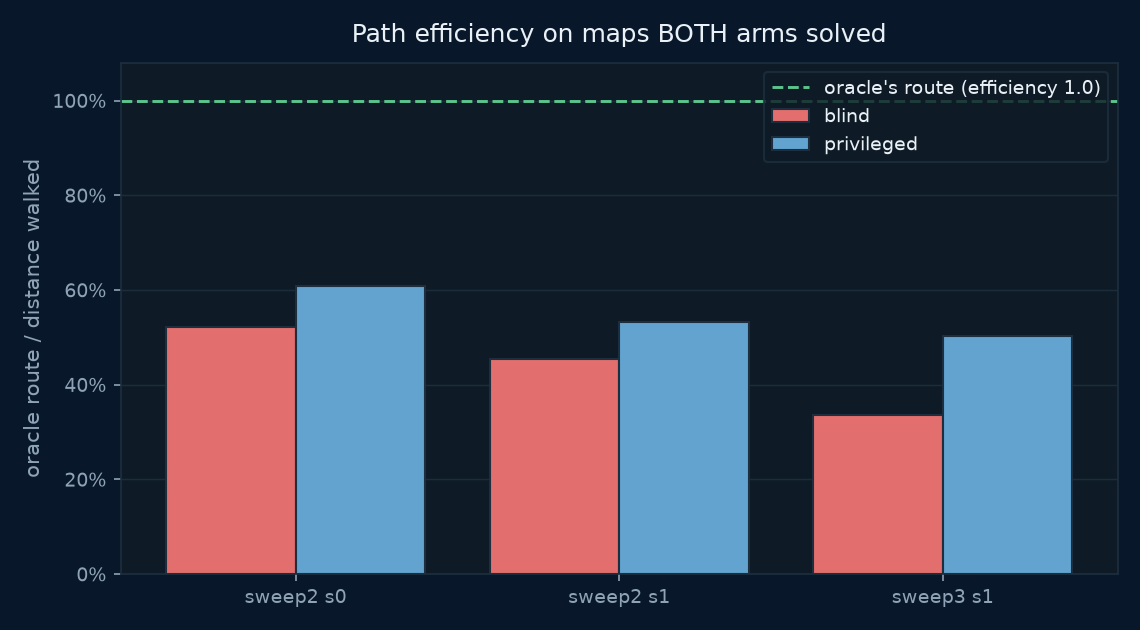
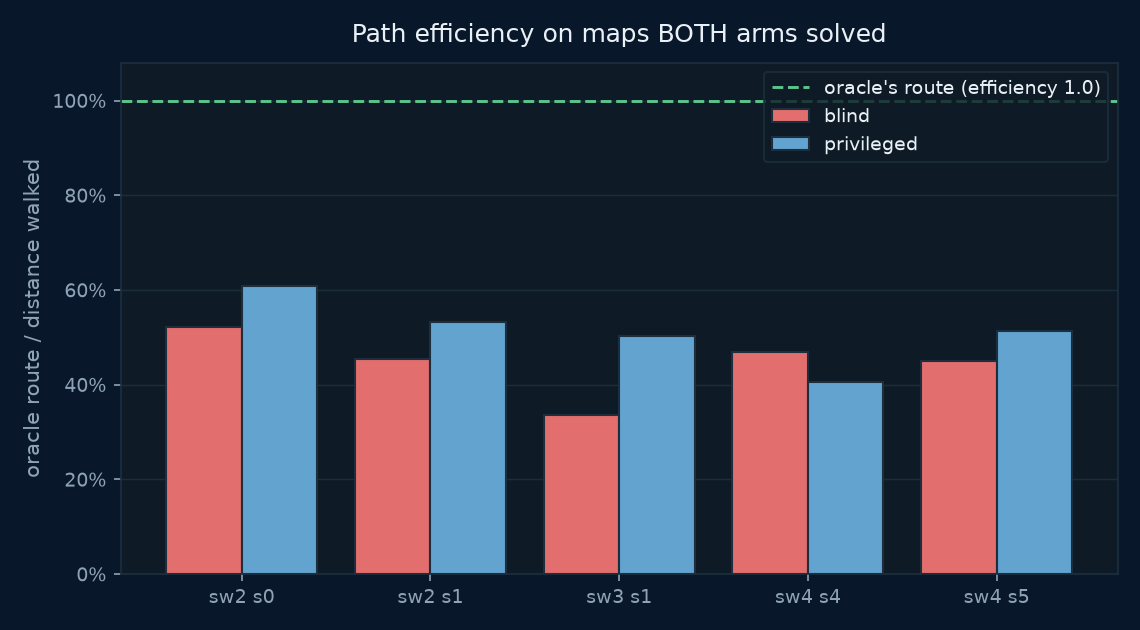
feat: angled views, a richer HUD, and three more seeds per arm (#82)
ANGLED CAMERAS. Overhead reads the route and flattens the terrain, so
four perspective views are added: isometric, chase, over-the-shoulder
and a slow orbit. They work because the route and track are MuJoCo
SCENE GEOMETRY rather than pixels painted on the finished frame -- the
hand projection that replaced was valid for exactly one camera at one
angle, and each new view would have needed its own version of it, each
wrong in its own way.

Marker size now scales with camera distance. A sphere sized for a 21 m
overhead shot is the size of the robot on a 5.5 m chase cam and
swallows the thing it annotates.

RICHER HUD. Step count, heading error against the goal bearing, speed,
and torso clearance, plus a TERRAIN COMPASS showing the same three
probes the privileged policy actually receives -- each cell red when
the rise exceeds the 0.12 m climbable threshold.

On the blind arm that panel is greyed and marked "NOT OBSERVED". A HUD
that looked identical for both arms would quietly imply they see the
same thing, which is the one claim this lab exists to test.

THREE MORE SEEDS PER ARM, a third independent sweep:

    blind       8.1%   8, 15,  0,  4, 19,  1,  1, 12, 14 %
    privileged 12.1%  16, 16,  4,  6, 18, 11, 12, 14, 13 %

Ahead on 7 of 9 seeds, +4.0 points.

    test                    6 seeds   9 seeds
    Wilcoxon signed-rank      0.063     0.022
    paired t                  0.089     0.017
    sign test                 0.016     0.090
[…]

Changed region(s): [[0.1842, 0.4524, 0.5526, 0.9651], [0.5219, 0.5127, 0.9518, 0.9651], [0.4912, 0.9349, 0.5833, 0.9651]]

diff --git a/07_physical_ai/04_terrain_navigation/render.py b/07_physical_ai/04_terrain_navigation/render.py
@@ -123,8 +123,31 @@ def load_policy(run: str):
     return act, meta["mode"]
 
 
+# Camera presets. `overhead` is orthographic so the arena reads as a
+# map; the rest are perspective, because relief is what they exist to
+# show and an orthographic 3/4 view flattens exactly that.
+#
+# All of them draw the route and track correctly, which is only true
+# because those are scene GEOMETRY rather than pixels painted on. The
+# hand projection this replaced was valid for one camera and one angle;
+# every view below would have needed its own version of it, and each
+# would have been wrong in its own way.
+VIEWS = {
+    "overhead": dict(ortho=True,  elev=-90.0, azim=90.0,  dist=21.0,
+                     track=False, label="overhead, orthographic"),
+    "iso":      dict(ortho=False, elev=-42.0, azim=125.0, dist=27.0,
+                     track=False, label="isometric"),
+    "chase":    dict(ortho=False, elev=-16.0, azim=None,  dist=5.5,
+                     track=True,  label="chase"),
+    "shoulder": dict(ortho=False, elev=-24.0, azim=None,  dist=3.2,
+                     track=True,  label="over the shoulder"),
+    "orbit":    dict(ortho=False, elev=-34.0, azim="spin", dist=26.0,
+                     track=False, label="orbit"),
+}
+
+
 def episode(run: str, seed: int, width: int, height: int, every: int,
-            overhead: bool = True):
+            overhead: bool = True, view: str = "overhead"):
     """One episode, filmed, with the route and the track drawn on."""
     import mujoco
     import numpy as np
@@ -146,36 +169,38 @@ def episode(run: str, seed: int, width: int, height: int, every: int,
         obs, _, term, trunc, info = env.step(act(obs))
         track.append((info["x"], info["y"]))
         if len(track) % every == 0 or term:
-            if overhead:
-                # ORTHOGRAPHIC, straight down. The overlay projects world
-                # metres to pixels with a linear map, and under a
-                # PERSPECTIVE camera that map is simply wrong -- every
-                # route line, track and obstacle outline lands slightly
-                # off the terrain it describes, which looks like a
-                # rendering quirk and is actually the figure disagreeing
-                # with the data. Orthographic makes the linear map exact.
-                cam.orthographic = 1
-                cam.lookat[:] = [0, 0, 0]
-                cam.distance = ORTHO_SPAN
-                cam.elevation, cam.azimuth = -90.0, 90.0
+            V = VIEWS[view]
+            cam.orthographic = 1 if V["ortho"] else 0
+            cam.distance = V["dist"]
+            cam.elevation = V["elev"]
+            if V["track"]:
+                cam.lookat[:] = [info["x"], info["y"],
+                                 env._h_at(info["x"], info["y"]) + 0.9]
+                # Behind the robot, looking the way it faces -- which is
+                # the whole point of a chase view and needs the live yaw
+                # rather than a fixed angle.
+                cam.azimuth = np.degrees(env.yaw()) + 180.0
             else:
-                cam.lookat[:] = [info["x"], info["y"], 1.0]
-                cam.distance, cam.elevation, cam.azimuth = 5.0, -14, 120
+                cam.lookat[:] = [0, 0, 0]
+                cam.azimuth = (V["azim"] if V["azim"] != "spin"
+                               else (len(track) * 0.35) % 360.0)
             r.update_scene(env.data, cam)
-            if overhead:
-                # The oracle's route, then where the robot actually went,
-                # then the goal -- all as scene geometry.
-                for x, y in route[::6]:
-                    add_marker(r.scene, (x, y, env._h_at(x, y) + 0.12),
-                               (0.10, 0.95, 0.45, 1.0), 0.11)
-                for x, y in track[::4]:
-                    add_marker(r.scene, (x, y, env._h_at(x, y) + 0.30),
-                               (1.0, 0.42, 0.10, 1.0), 0.14)
-                sx, sy = env.map.start
-                add_marker(r.scene, (sx, sy, env._h_at(sx, sy) + 0.5),
-                           (0.25, 0.60, 1.0, 1.0), 0.32)
+            # Markers scale with camera distance. A sphere sized for a
+            # 21 m overhead shot is the size of the robot on a 5.5 m
+            # chase cam, and swallows the thing it is annotating.
+            k = V["dist"] / 21.0
+            for x, y in route[::6]:
+                add_marker(r.scene, (x, y, env._h_at(x, y) + 0.12),
+                           (0.10, 0.95, 0.45, 1.0), 0.11 * k)
+            for x, y in track[::4]:
+                add_marker(r.scene, (x, y, env._h_at(x, y) + 0.30 * k),
+                           (1.0, 0.42, 0.10, 1.0), 0.14 * k)
+            sx, sy = env.map.start
+            add_marker(r.scene, (sx, sy, env._h_at(sx, sy) + 0.5),
+                       (0.25, 0.60, 1.0, 1.0), 0.32 * k)
             frames.append(overlay(r.render(), env, info, route, track,
-                                  mode=mode, overhead=overhead))
+                                  mode=mode, overhead=overhead, env_=env,
+                                  view=view))
         if term or trunc:
             break
     return frames, {"arrived": info["arrived"], "fell": info["fell"],
@@ -228,7 +253,8 @@ def add_marker(scene, pos, rgba, size=0.14):
     scene.ngeom += 1
 
 
-def overlay(frame, env, info, route, track, *, mode, overhead):
+def overlay(frame, env, info, route, track, *, mode, overhead,
+            env_=None, view='overhead'):
     import numpy as np
     from PIL import Image, ImageDraw
 
@@ -237,12 +263,27 @@ def overlay(frame, env, info, route, track, *, mode, overhead):
     W, H = img.size
 
     eff = (info["route"] / info["travelled"]) if info["travelled"] > 0.1 else 0
+    import numpy as _np
+
+    # Heading, and how far off the goal bearing it is. A navigating
+    # robot can be walking beautifully in the wrong direction, and the
+    # distance-to-goal row alone does not show that.
+    gx, gy = env.map.goal
+    bearing = _np.arctan2(gy - env.pos()[1], gx - env.pos()[0])
+    off = _np.degrees((bearing - env.yaw() + _np.pi) % (2 * _np.pi) - _np.pi)
+    speed = float(_np.hypot(env.data.qvel[0], env.data.qvel[1]))
+
     stats = [("mode", mode),
+             ("view", VIEWS[view]["label"]),
+             ("step", f"{env.t} / {env.max_steps}"),
              ("to goal", f"{info['to_goal']:.1f} m"),
+             ("heading error", f"{off:+.0f}\u00b0"),
+             ("speed", f"{speed:.2f} m/s"),
              ("walked", f"{info['travelled']:.1f} m"),
              ("best route", f"{info['route']:.1f} m"),
-             ("efficiency", f"{min(eff,1):.0%}")]
-    pw, ph = 228, 30 + 20 * len(stats)
+             ("efficiency", f"{min(eff,1):.0%}"),
+             ("clearance", f"{env.clearance():.2f} m")]
+    pw, ph = 244, 30 + 20 * len(stats)
     d.rounded_rectangle([12, 12, 12 + pw, 12 + ph], 8, fill=PANEL,
                         outline=EDGE)
     y = 24
@@ -252,17 +293,40 @@ def overlay(frame, env, info, route, track, *, mode, overhead):
                anchor="ra")
         y += 20
 
-    if overhead:
-        legend = (((26, 242, 115), "oracle's shortest route"),
-                  ((255, 107, 26), "where the robot went"),
-                  ((64, 153, 255), "start"))
-        lh = 19 * len(legend) + 12
-        d.rounded_rectangle([12, H - lh - 12, 232, H - 12], 8, fill=PANEL,
-                            outline=EDGE)
-        for i, (col, lab) in enumerate(legend):
-            yy = H - lh - 2 + i * 19
-            d.line([(24, yy + 6), (50, yy + 6)], fill=col, width=3)
-            d.text((58, yy), lab, font=_font(11), fill=MUTED)
+    # WHAT THE ROBOT KNOWS about the ground around it: the same three
+    # probes the privileged policy receives, drawn as a little compass.
+    # On the blind arm this panel is shown greyed, because the whole
+    # point is that it does NOT have these numbers -- a HUD that looked
+    # identical for both arms would quietly imply they see the same
+    # thing.
+    from world import STEP_MAX
+    feats = env.terrain_feats() if env.mode == "privileged" else None
+    bx, by, bw = 12, 12 + ph + 10, 244
+    d.rounded_rectangle([bx, by, bx + bw, by + 96], 8, fill=PANEL,
+                        outline=EDGE)
+    d.text((bx + 14, by + 8),
+           "ground ahead" if feats is not None else "ground ahead — NOT OBSERVED",
+           font=_font(10, True), fill=INK if feats is not None else MUTED)
+    for i, (lab, lobe) in enumerate((("left", 1), ("ahead", 0), ("right", 2))):
+        cx = bx + 46 + i * 76
+        if feats is None:
+            d.rounded_rectangle([cx - 30, by + 30, cx + 30, by + 58], 5,
+                                outline=(70, 86, 104, 255))
+            d.text((cx, by + 44), "?", font=_font(13, True),
+                   fill=(90, 106, 124), anchor="mm")
+        else:
+            rise, blocked = float(feats[lobe * 2]), bool(feats[lobe * 2 + 1])
+            col = BAD if blocked else GOOD
+            d.rounded_rectangle([cx - 30, by + 30, cx + 30, by + 58], 5,
+                                fill=col + (55,), outline=col + (255,))
+            d.text((cx, by + 44), f"{rise:.2f} m", font=_font(11, True),
+                   fill=col, anchor="mm")
+        d.text((cx, by + 68), lab, font=_font(10), fill=MUTED, anchor="mm")
+    if feats is not None:
+        # Below the row, not beside the title -- at 244 px wide the two
+        # labels collided.
+        d.text((bx + bw / 2, by + 80), f"red when the rise exceeds "
+               f"{STEP_MAX:.2f} m", font=_font(9), fill=MUTED, anchor="mm")
 
     chip = ("ARRIVED" if info["arrived"] else
             ("FELL" if info["fell"] else "WALKING"))
@@ -346,8 +410,38 @@ def clip_fail(a) -> None:
     _save(f, OUT / "nav-fail.gif", a)
 
 
+def _angled(a, view: str, out: str) -> None:
+    f, res = episode(a.run, a.seed, a.width, a.height, a.every,
+                     overhead=(view == "overhead"), view=view)
+    print(f"    {VIEWS[view]['label']:<22} walked {res['travelled']:5.1f} m  "
+          f"{'ARRIVED' if res['arrived'] else 'did not arrive'}")
+    _save(f, OUT / out, a)
+
+
+def clip_iso(a) -> None:
+    """A 3/4 view: relief AND the route, which neither other view gives."""
+    _angled(a, "iso", "nav-iso.gif")
+
+
+def clip_chase(a) -> None:
+    """Behind the robot, turning with it."""
+    _angled(a, "chase", "nav-chase.gif")
+
+
+def clip_shoulder(a) -> None:
+    """Close in, where the ridges are at eye level."""
+    _angled(a, "shoulder", "nav-shoulder.gif")
+
+
+def clip_orbit(a) -> None:
+    """A slow orbit: the arena as a three-dimensional place."""
+    _angled(a, "orbit", "nav-orbit.gif")
+
+
 CLIPS = {"route": clip_route, "ground": clip_ground,
-         "compare": clip_compare, "fail": clip_fail}
+         "compare": clip_compare, "fail": clip_fail,
+         "iso": clip_iso, "chase": clip_chase,
+         "shoulder": clip_shoulder, "orbit": clip_orbit}
 
 
 def main() -> int:

diff --git a/docusaurus-docs/docs/tutorials/physical/terrain-navigation.md b/docusaurus-docs/docs/tutorials/physical/terrain-navigation.md
@@ -35,20 +35,37 @@ identical maps:
 
 | | arrival | per seed |
 |---|---|---|
-| blind — proprioception + goal bearing | 7.8% | 8, 15, 0, 4, 19, 1 % |
-| **privileged** — plus the ground ahead | **11.7%** | 16, 16, 4, 6, 18, 11 % |
+| blind — proprioception + goal bearing | 8.1% | 8, 15, 0, 4, 19, 1, 1, 12, 14 % |
+| **privileged** — plus the ground ahead | **12.1%** | 16, 16, 4, 6, 18, 11, 12, 14, 13 % |
 
-Privileged ahead on **5 of 6 seeds**, mean **+3.9 points**.
+Privileged ahead on **7 of 9 seeds**, mean **+4.0 points**.
 
-| test | p |
-|---|---|
-| sign test | **0.016** |
-| Wilcoxon signed-rank | 0.063 |
-| paired t | 0.089 |
-| pooled Fisher *(upper bound)* | 0.016 |
+| test | 6 seeds | **9 seeds** |
+|---|---|---|
+| Wilcoxon signed-rank | 0.063 | **0.022** |
+| paired t | 0.089 | **0.017** |
+| sign test | 0.016 | 0.090 |
+| pooled Fisher *(upper bound)* | 0.016 | 0.003 |
+
+The two tests that use effect **magnitude** both strengthened and are
+now below 0.05. The sign test weakened, and the reason is worth
+knowing: it counts only wins and losses, and the two new losses were
+tiny (−1 and −5 points) while the wins were larger. A sign test throws
+away exactly the information that distinguishes those. **Wilcoxon is
+the headline here.**
 
 Pooling is an upper bound — episodes within a seed share a policy, so
-they are not independent. The sign test is the honest headline.
+they are not independent.
+
+**The effect size barely moved: +3.9 points at six seeds, +4.0 at
+nine.** Three more seeds shifted the estimate by a tenth of a point.
+
+### It also removes the catastrophic runs
+
+Across nine seeds the blind arm produced **0%, 1% and 1%** — three
+near-total failures. The privileged arm's worst seed is **4%**. The
+information does not only raise the mean; on this evidence it removes
+the floor.
 
 ### The stronger signal is the route, not the arrival
 
@@ -62,9 +79,14 @@ much shorter path:
 | sweep 2, s0 | 2 | 52.1% | 60.8% |
 | sweep 2, s1 | 7 | 45.5% | 53.2% |
 | sweep 3, s1 | 9 | 33.7% | **50.3%** |
-| **mean** | | **43.8%** | **54.8%** |
+| sweep 4, s4 | 4 | 46.9% | **40.5%** |
+| sweep 4, s5 | 6 | 44.9% | 51.4% |
+| **mean** | | **44.6%** | **51.2%** |
 
-Better on **3/3 pairs**, +11.0 points. This is a paired, *continuous*
+Better on **4 of 5 pairs**, +6.6 points. Only pairs where *both* arms
+solved at least two of the same maps appear — four of the nine seed
+pairs never overlapped enough to compare, which is itself a
+consequence of a 12% arrival rate. This is a paired, *continuous*
 measure on identical maps with identical outcomes — far less
 quantisation noise than binary arrival, and it says the information
 buys **better routes**, not merely more of them.
@@ -247,7 +269,29 @@ went. Both are drawn as **scene geometry**, not painted onto the frame —
 see the note below.
 
 ![A second map](/img/physical/nav-route-b.gif)
+
+### From an angle
+
+Overhead reads the route; it flattens the terrain. These show the
+relief the robot is actually dealing with — and they only work because
+the route and track are **scene geometry**, so they project correctly
+at any camera angle.
+
+![Isometric](/img/physical/nav-iso.gif)
+
+![Chase](/img/physical/nav-chase.gif)
+
+![Over the shoulder](/img/physical/nav-shoulder.gif)
+
+![Orbit](/img/physical/nav-orbit.gif)
+
 ![Ground level](/img/physical/nav-ground.gif)
+
+The HUD on these carries a **terrain compass** — the same three probes
+the privileged policy receives, with each reading red when the rise
+exceeds the 0.12 m climbable threshold. On the blind arm the panel is
+greyed and marked *not observed*, because a HUD that looked identical
+for both arms would quietly imply they see the same thing.
 
 ![A failure](/img/physical/nav-fail.gif)
 

diff --git a/07_physical_ai/04_terrain_navigation/README.md b/07_physical_ai/04_terrain_navigation/README.md
@@ -15,15 +15,15 @@ two-legged robot climbing 0.04–0.10 m treads reliably and failing above
 that.
 
 **Baseline:** the blind policy — proprioception and the goal bearing,
-same algorithm, same 1.5M steps, six seeds across two sweeps: **7.8%**
-arrival, 43.8% path efficiency.
-**Budget:** 1.5M environment steps per run × 3 seeds per arm × 2
+same algorithm, same 1.5M steps, nine seeds across three sweeps:
+**8.1%** arrival, 44.6% path efficiency.
+**Budget:** 1.5M environment steps per run × 3 seeds per arm × 3
 independent sweeps, goal range 7 m; scored on **120 evaluation episodes
 per checkpoint** on identical maps.
 **Falsifier:** if a policy handed the ground profile ahead does not beat
 the blind one on arrival, terrain information is not what this task
-needs. It does, on 5 of 6 seeds (sign test p = 0.016) — and on path
-efficiency on 3/3 pairs.
+needs. It does, on 7 of 9 seeds (Wilcoxon p = 0.022) — and on path
+efficiency on 4 of 5 comparable pairs.
 
 ![One arena](../../docusaurus-docs/static/img/physical/nav-world.png)
 
@@ -38,13 +38,20 @@ on identical maps:
 
 | | arrival | per seed |
 |---|---|---|
-| blind | 7.8% | 8, 15, 0, 4, 19, 1 % |
-| **privileged** | **11.7%** | 16, 16, 4, 6, 18, 11 % |
+| blind | 8.1% | 8, 15, 0, 4, 19, 1, 1, 12, 14 % |
+| **privileged** | **12.1%** | 16, 16, 4, 6, 18, 11, 12, 14, 13 % |
 
-Ahead on **5 of 6 seeds**, mean **+3.9 points**. Sign test p = 0.016;
-Wilcoxon 0.063; paired t 0.089. Pooled Fisher p = 0.016 is an **upper
-bound** — episodes within a seed share a policy and are not
-independent.
+Ahead on **7 of 9 seeds**, mean **+4.0 points**. Wilcoxon **p = 0.022**,
+paired t **0.017** — both strengthened from the six-seed version. The
+sign test went the other way (0.016 → 0.090) because it counts only
+wins and the two new losses were tiny while the wins were larger;
+Wilcoxon uses the magnitudes and is the headline. Pooled Fisher is an
+**upper bound** — episodes within a seed share a policy.
+
+The effect size barely moved: **+3.9 at six seeds, +4.0 at nine**. And
+across nine seeds the blind arm produced 0%, 1% and 1%, while the
+privileged arm's worst is 4% — it appears to remove the floor, not
+only raise the mean.
 
 ### The route is the stronger signal
 
@@ -57,9 +64,12 @@ On maps **both** arms solve:
 | sweep 2, s0 | 2 | 52.1% | 60.8% |
 | sweep 2, s1 | 7 | 45.5% | 53.2% |
 | sweep 3, s1 | 9 | 33.7% | **50.3%** |
-| **mean** | | **43.8%** | **54.8%** |
+| sweep 4, s4 | 4 | 46.9% | **40.5%** |
+| sweep 4, s5 | 6 | 44.9% | 51.4% |
+| **mean** | | **44.6%** | **51.2%** |
 
-Better on 3/3 pairs, **+11.0 points**. A paired continuous measure on
+Better on **4 of 5 pairs**, +6.6 points. Only pairs where both arms
+solved at least two of the same maps appear. A paired continuous measure on
 identical maps with identical outcomes — much less quantisation noise
 than binary arrival. The information buys **better routes**, not just
 more of them.
